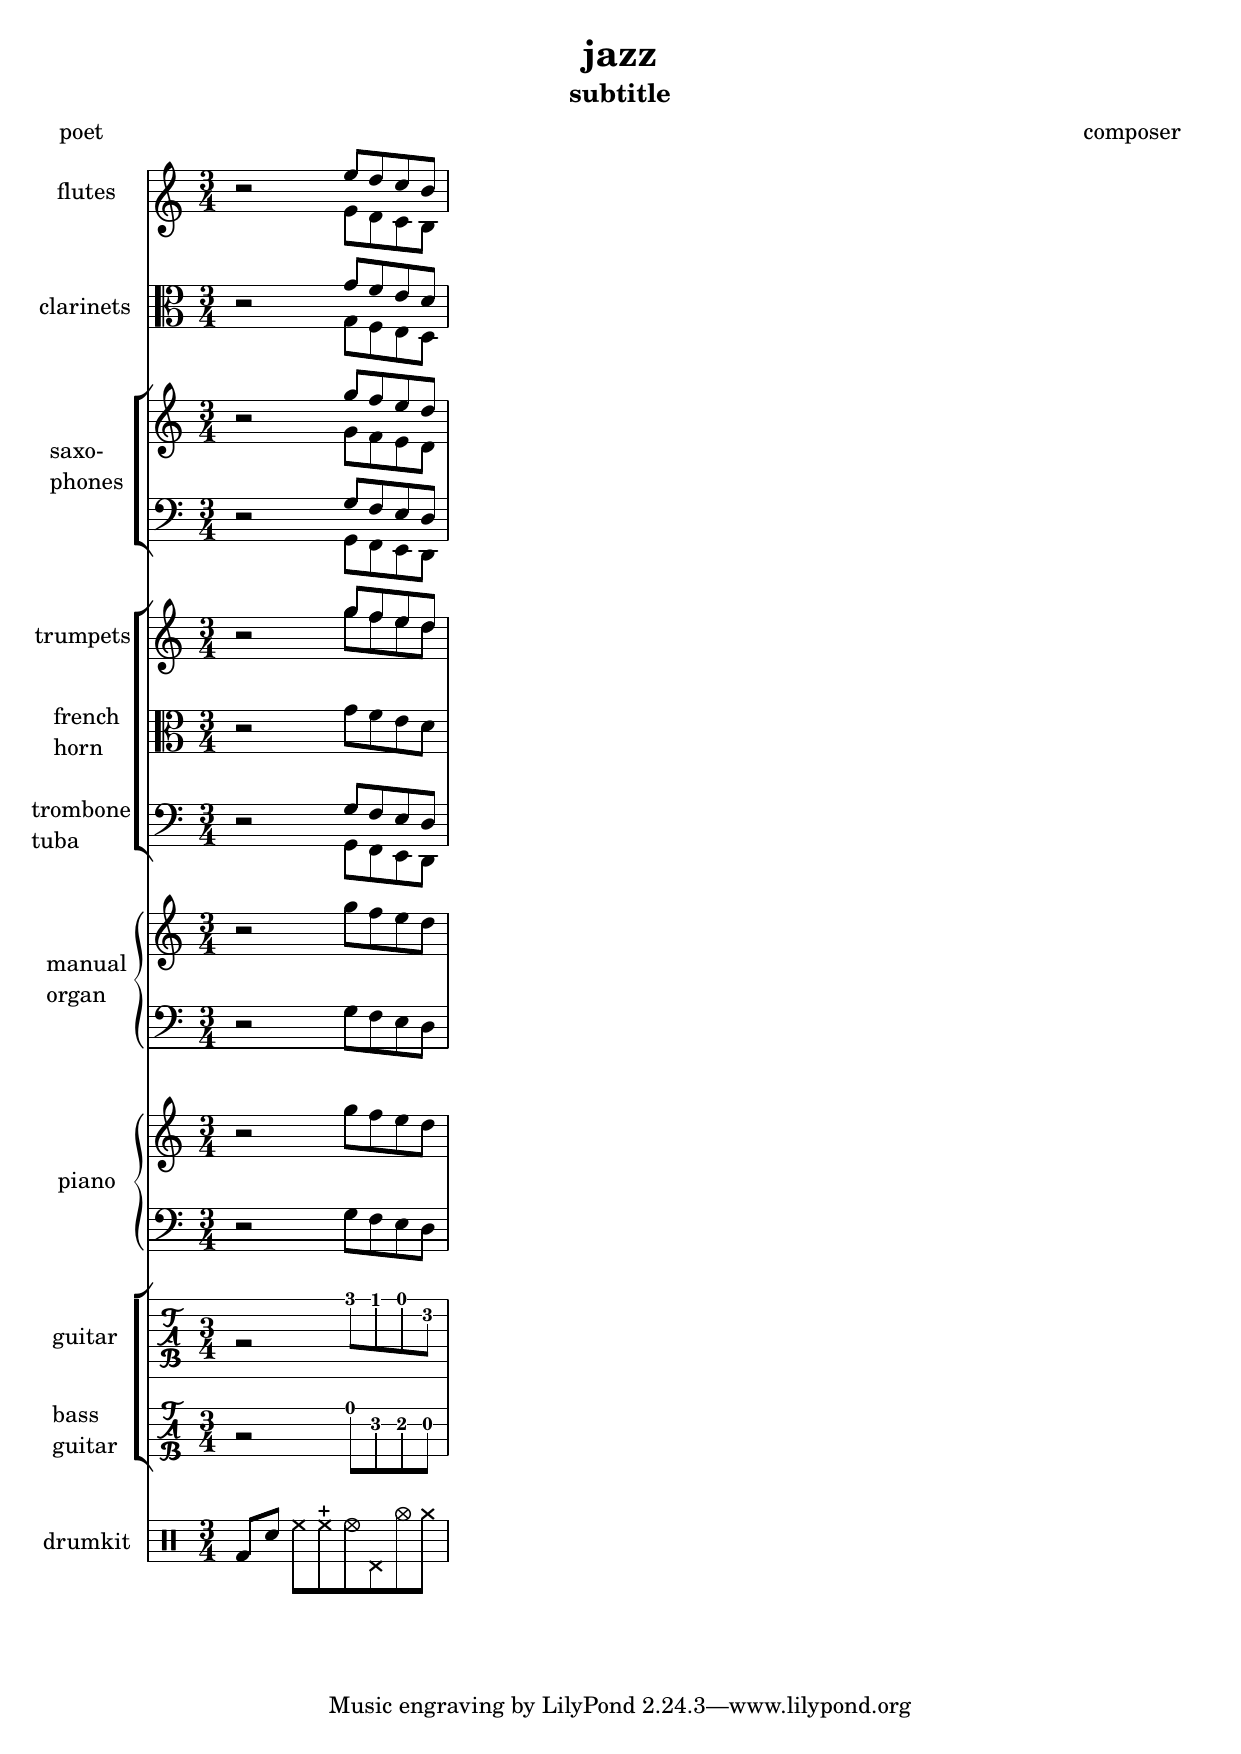
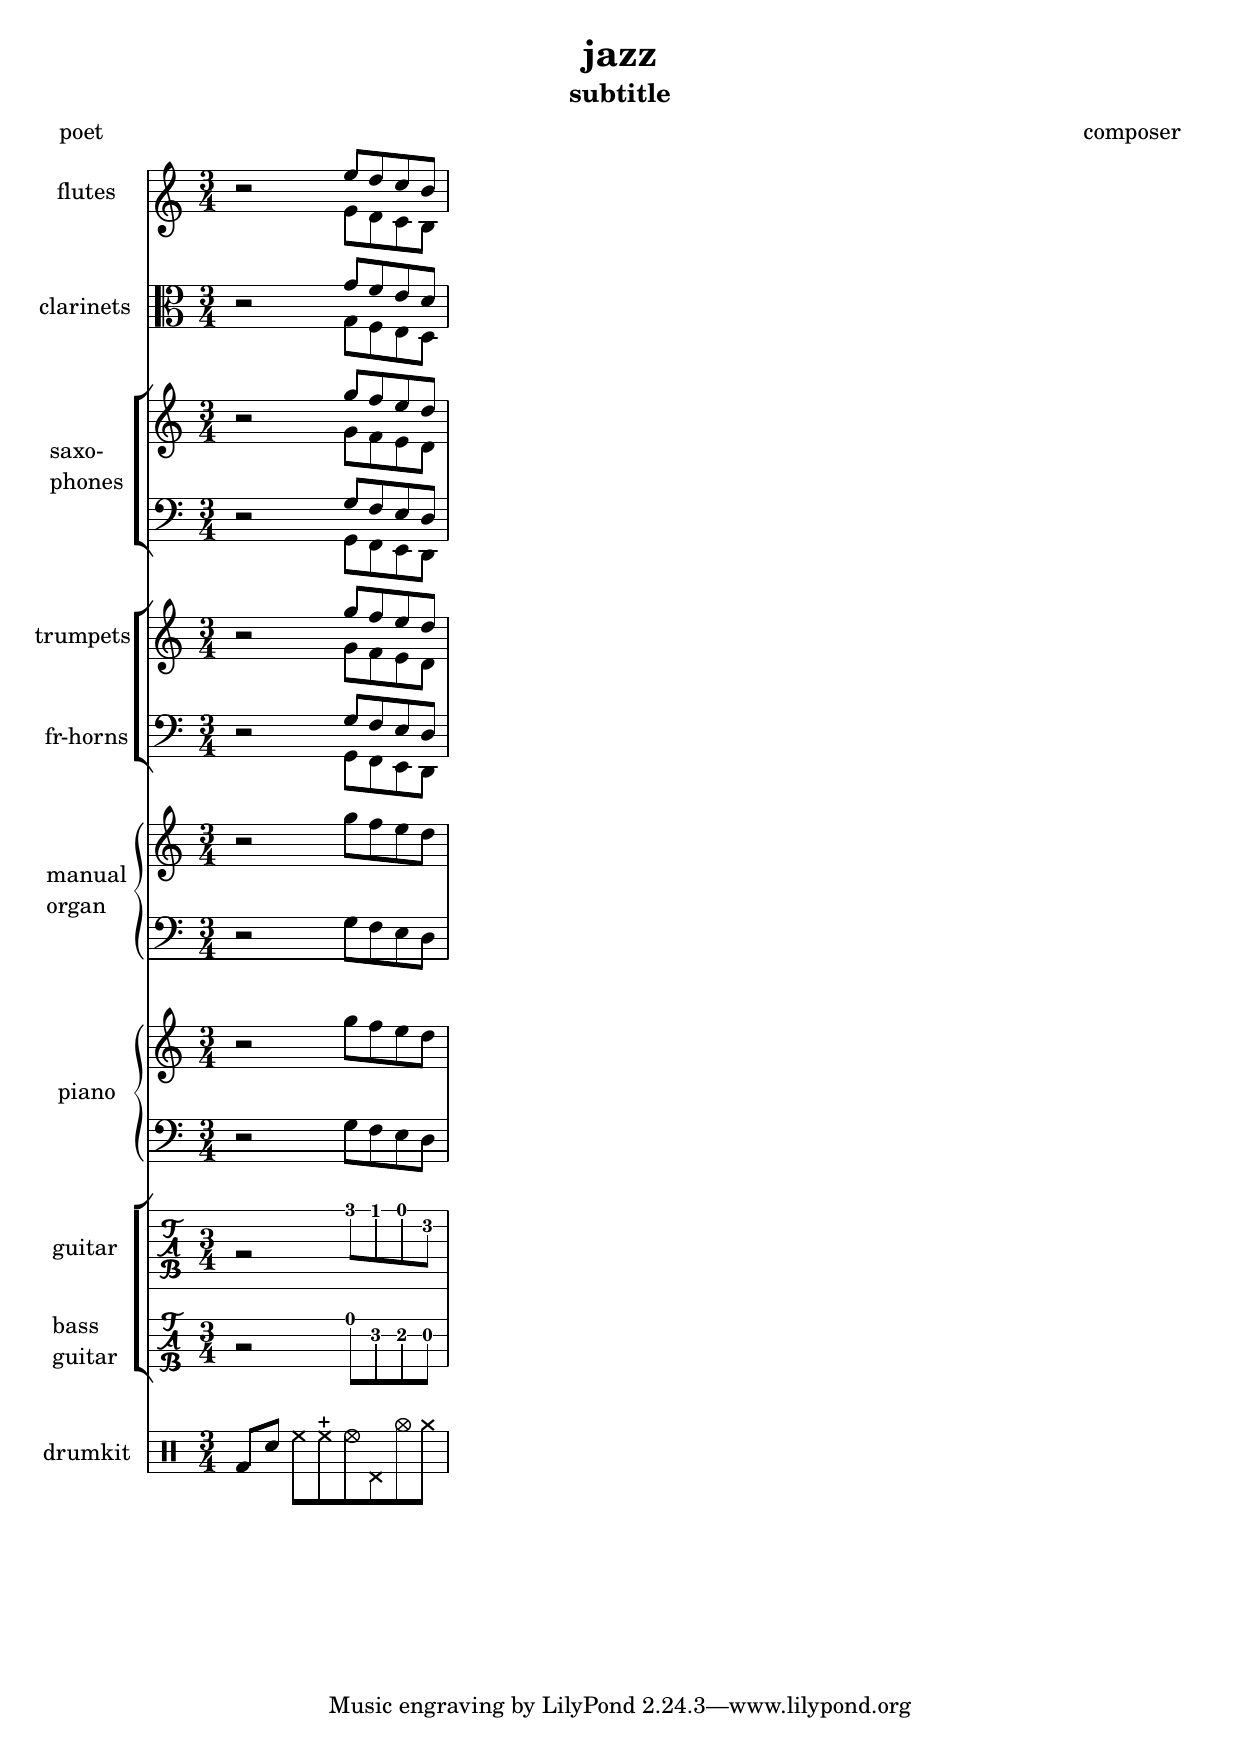
...

diff --git a/musica/template/jazz.html b/musica/template/jazz.html
@@ -3,7 +3,7 @@
 "http://www.w3.org/TR/xhtml1/DTD/xhtml1-strict.dtd">
 <html xmlns="http://www.w3.org/1999/xhtml" lang="en" xml:lang="en">
 <head>
-<!-- 2024-03-11 lun 10:52 -->
+<!-- 2024-03-11 lun 11:18 -->
 <meta http-equiv="Content-Type" content="text/html;charset=utf-8" />
 <meta name="viewport" content="width=device-width, initial-scale=1" />
 <title>Eclats de vers : Opus : Musica : template</title>
@@ -205,20 +205,20 @@
 <h2>Table of Contents</h2>
 <div id="text-table-of-contents" role="doc-toc">
 <ul>
-<li><a href="#orgd5b2837">1. Jazz</a></li>
+<li><a href="#orga40556e">1. Jazz</a></li>
 </ul>
 </div>
 </div>
 
-<div id="outline-container-orgd5b2837" class="outline-2">
-<h2 id="orgd5b2837"><span class="section-number-2">1.</span> Jazz</h2>
+<div id="outline-container-orga40556e" class="outline-2">
+<h2 id="orga40556e"><span class="section-number-2">1.</span> Jazz</h2>
 <div class="outline-text-2" id="text-1">
 <p>
 Le résultat :
 </p>
 
 
-<div id="orga07b443" class="figure">
+<div id="orgb1bad5c" class="figure">
 <p><img src="../../image/musica/template/jazz.png" alt="jazz.png" />
 </p>
 </div>
@@ -3567,8 +3567,8 @@ groupGuitarTabs = \new StaffGroup
       % brass {{{3
       %\staffTrumpets
       %\staffFrenchHorns
-      %\groupBrassQuartet
-      \groupBrassQuintet
+      \groupBrassQuartet
+      %\groupBrassQuintet
       % wind keyboards {{{3
       \groupManualOrgan
       %\groupPedalOrgan
@@ -3611,14 +3611,14 @@ groupGuitarTabs = \new StaffGroup
       % one midi channel per voice or staff {{{3
       % -- comment this if you don't need distinct instruments on the same staff
       % -- it will save midi channels (max 16 are available)
-      \context {
-        \Staff
-        \remove "Staff_performer"
-      }
-      \context {
-        \Voice
-        \consists "Staff_performer"
-      }
+      % \context {
+      %   \Staff
+      %   \remove "Staff_performer"
+      % }
+      % \context {
+      %   \Voice
+      %   \consists "Staff_performer"
+      % }
     }
   }
   % paper {{{2
@@ -3633,7 +3633,7 @@ groupGuitarTabs = \new StaffGroup
 </div>
 <div id="postamble" class="status">
 <p class="author">Author: chimay</p>
-<p class="date">Created: 2024-03-11 lun 10:52</p>
+<p class="date">Created: 2024-03-11 lun 11:18</p>
 <p class="validation"><a href="https://validator.w3.org/check?uri=referer">Validate</a></p>
 </div>
 </body>

diff --git a/musica/template/keyboards.html b/musica/template/keyboards.html
@@ -3,7 +3,7 @@
 "http://www.w3.org/TR/xhtml1/DTD/xhtml1-strict.dtd">
 <html xmlns="http://www.w3.org/1999/xhtml" lang="en" xml:lang="en">
 <head>
-<!-- 2024-03-11 lun 10:52 -->
+<!-- 2024-03-11 lun 11:18 -->
 <meta http-equiv="Content-Type" content="text/html;charset=utf-8" />
 <meta name="viewport" content="width=device-width, initial-scale=1" />
 <title>Eclats de vers : Opus : Musica : template</title>
@@ -205,20 +205,20 @@
 <h2>Table of Contents</h2>
 <div id="text-table-of-contents" role="doc-toc">
 <ul>
-<li><a href="#orgfafb6ab">1. Claviers</a></li>
+<li><a href="#orgd53d259">1. Claviers</a></li>
 </ul>
 </div>
 </div>
 
-<div id="outline-container-orgfafb6ab" class="outline-2">
-<h2 id="orgfafb6ab"><span class="section-number-2">1.</span> Claviers</h2>
+<div id="outline-container-orgd53d259" class="outline-2">
+<h2 id="orgd53d259"><span class="section-number-2">1.</span> Claviers</h2>
 <div class="outline-text-2" id="text-1">
 <p>
 Le résultat :
 </p>
 
 
-<div id="org47a4372" class="figure">
+<div id="org690744a" class="figure">
 <p><img src="../../image/musica/template/keyboards.png" alt="keyboards.png" />
 </p>
 </div>
@@ -3612,14 +3612,14 @@ groupGuitarTabs = \new StaffGroup
       % one midi channel per voice or staff {{{3
       % -- comment this if you don't need distinct instruments on the same staff
       % -- it will save midi channels (max 16 are available)
-      \context {
-        \Staff
-        \remove "Staff_performer"
-      }
-      \context {
-        \Voice
-        \consists "Staff_performer"
-      }
+      % \context {
+      %   \Staff
+      %   \remove "Staff_performer"
+      % }
+      % \context {
+      %   \Voice
+      %   \consists "Staff_performer"
+      % }
     }
   }
   % paper {{{2
@@ -3634,7 +3634,7 @@ groupGuitarTabs = \new StaffGroup
 </div>
 <div id="postamble" class="status">
 <p class="author">Author: chimay</p>
-<p class="date">Created: 2024-03-11 lun 10:52</p>
+<p class="date">Created: 2024-03-11 lun 11:18</p>
 <p class="validation"><a href="https://validator.w3.org/check?uri=referer">Validate</a></p>
 </div>
 </body>

diff --git a/musica/template/boudoir.html b/musica/template/boudoir.html
@@ -3,7 +3,7 @@
 "http://www.w3.org/TR/xhtml1/DTD/xhtml1-strict.dtd">
 <html xmlns="http://www.w3.org/1999/xhtml" lang="en" xml:lang="en">
 <head>
-<!-- 2024-03-11 lun 10:52 -->
+<!-- 2024-03-11 lun 11:18 -->
 <meta http-equiv="Content-Type" content="text/html;charset=utf-8" />
 <meta name="viewport" content="width=device-width, initial-scale=1" />
 <title>Eclats de vers : Opus : Musica : template</title>
@@ -205,20 +205,20 @@
 <h2>Table of Contents</h2>
 <div id="text-table-of-contents" role="doc-toc">
 <ul>
-<li><a href="#org763b719">1. Boudoir</a></li>
+<li><a href="#orge942712">1. Boudoir</a></li>
 </ul>
 </div>
 </div>
 
-<div id="outline-container-org763b719" class="outline-2">
-<h2 id="org763b719"><span class="section-number-2">1.</span> Boudoir</h2>
+<div id="outline-container-orge942712" class="outline-2">
+<h2 id="orge942712"><span class="section-number-2">1.</span> Boudoir</h2>
 <div class="outline-text-2" id="text-1">
 <p>
 Le résultat :
 </p>
 
 
-<div id="org5a4fc50" class="figure">
+<div id="orge141c51" class="figure">
 <p><img src="../../image/musica/template/boudoir.png" alt="boudoir.png" />
 </p>
 </div>
@@ -3611,14 +3611,14 @@ groupGuitarTabs = \new StaffGroup
       % one midi channel per voice or staff {{{3
       % -- comment this if you don't need distinct instruments on the same staff
       % -- it will save midi channels (max 16 are available)
-      \context {
-        \Staff
-        \remove "Staff_performer"
-      }
-      \context {
-        \Voice
-        \consists "Staff_performer"
-      }
+      % \context {
+      %   \Staff
+      %   \remove "Staff_performer"
+      % }
+      % \context {
+      %   \Voice
+      %   \consists "Staff_performer"
+      % }
     }
   }
   % paper {{{2
@@ -3633,7 +3633,7 @@ groupGuitarTabs = \new StaffGroup
 </div>
 <div id="postamble" class="status">
 <p class="author">Author: chimay</p>
-<p class="date">Created: 2024-03-11 lun 10:52</p>
+<p class="date">Created: 2024-03-11 lun 11:18</p>
 <p class="validation"><a href="https://validator.w3.org/check?uri=referer">Validate</a></p>
 </div>
 </body>
